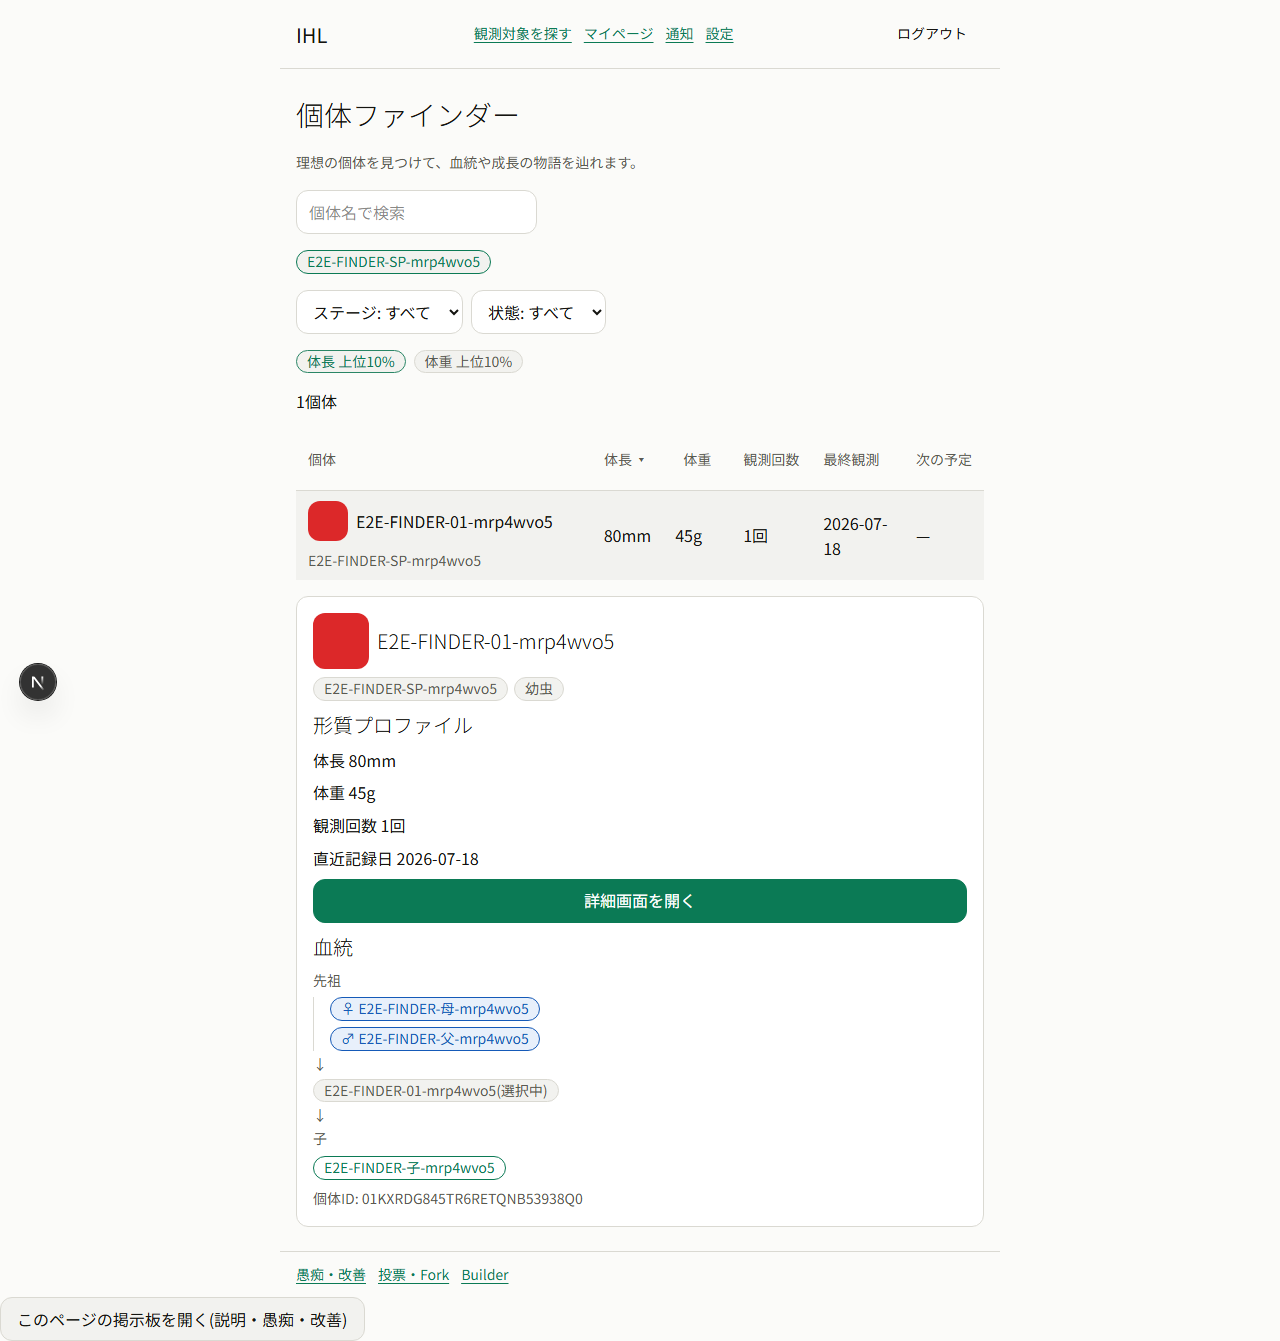
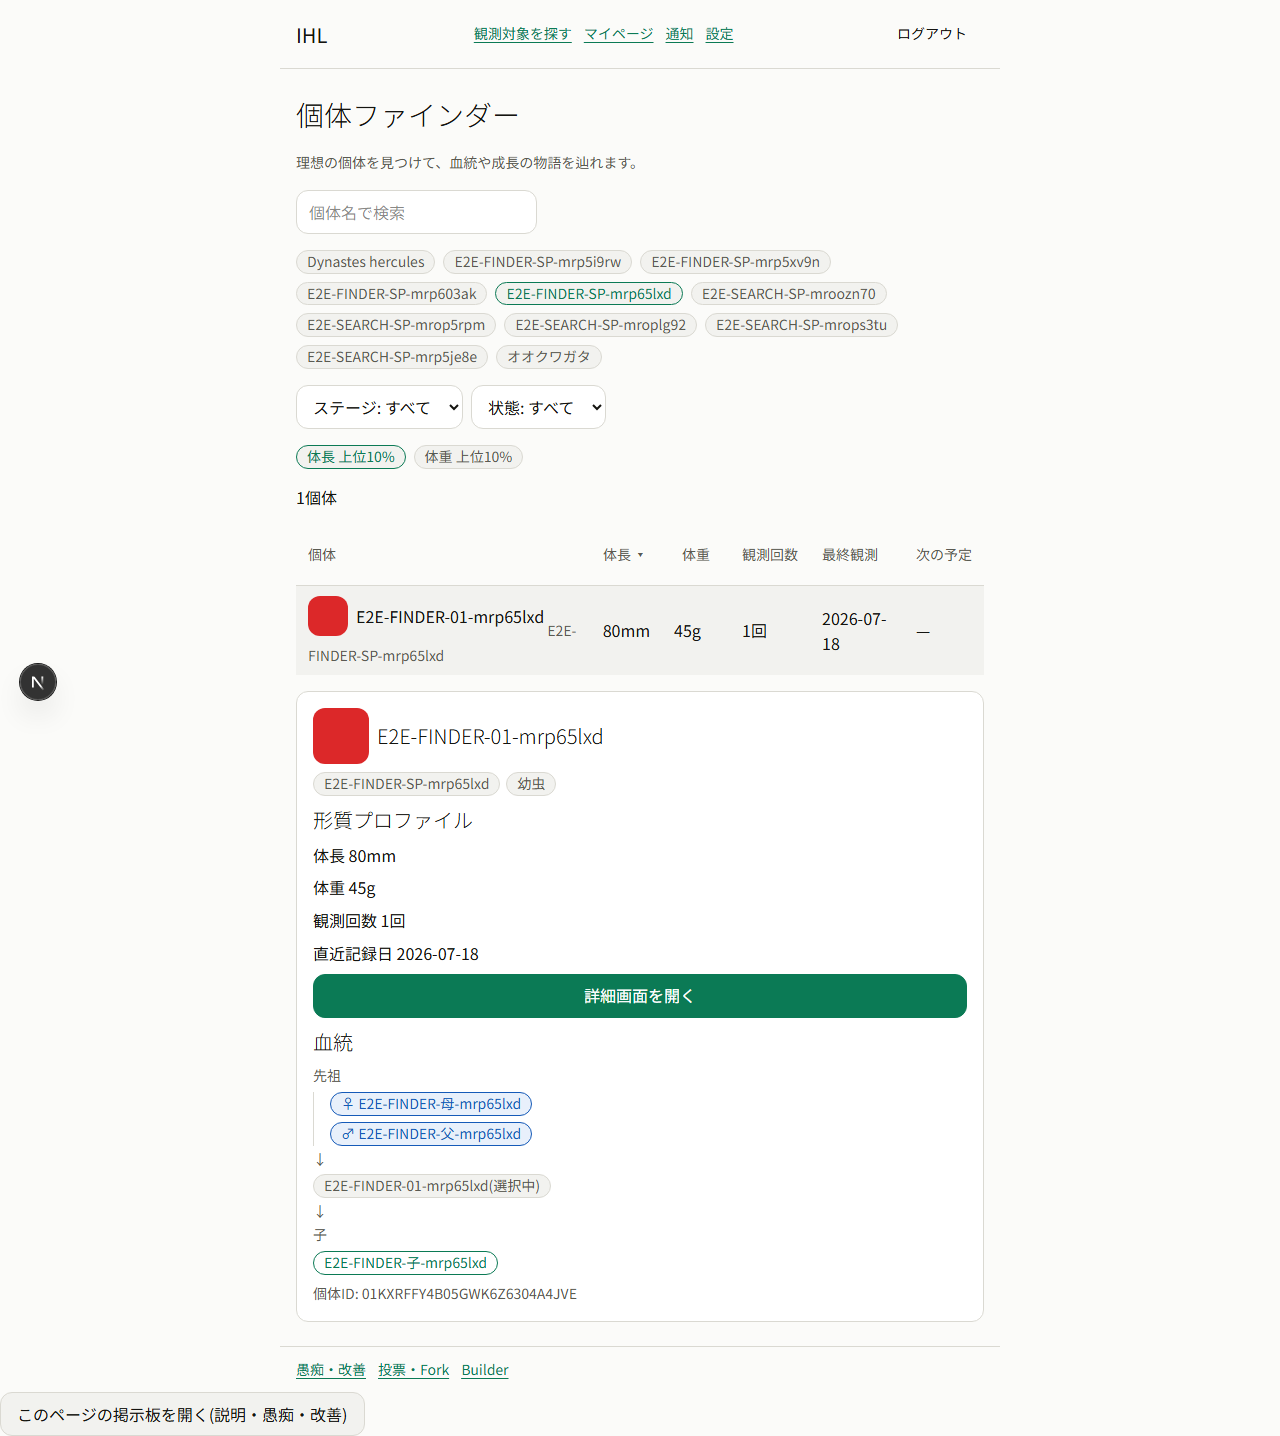
chore: 実装波の基準コミット — 残置差分4件(STEP 0節・round-16補足・モックアップ2枚)を畳む
自律実行理由: PLAN-ihl3-core D7(艦はcommitしない・検収後HQコミット)の前提=porcelainを綺麗にして艦の差分検知を成立させる。差分は2026-07-25以前からの正当な内容(STEP 0のT-79ゲートは571/571完了で条件成立済み)。参照: R0730-ad0c0b-PLAN-ihl3-core-2026-07-31.md §8

diff --git a/CLAUDE.md b/CLAUDE.md
@@ -12,8 +12,26 @@ status: active
 > このファイルが AI 向け規約の唯一の正本。`CLAUDE.md` は本ファイルの同内容複製（CI 同期チェック対象）。
 > 詳細は各リンク先へ。ここには規約と禁止事項だけを命令形で置く。
 
+## 🔴 STEP 0 — ver3 再開時に最初にやること（ユーザー指示 2026-07-25・実装より先）
+
+**この節を読まずに ver3 の実装を再開するな。** ユーザーの指示（原文）:
+
+> 「IHLver3 の未着手をホントにする必要があるのか? 本当にできていないのか? など、仕分けと調査が必要ですね。あとで、やりましょう。…IHL の続きやるときに、最初にやるってわかるようにしておいて。**本当にできているのか?も調査必要ですので、一回大規模整理が必要です。**」
+
+**何をするか = 要件758件の大規模仕分け（両方向の検算）**
+
+1. **未着手の仕分け**: 要件レジストリ 758 件のうち **571 件が未着手**、そのうち **424 件は実装計画（`docs/planning/c8/progress.json`）に記録すら無い**。これを「本当にやる必要があるか」で仕分ける — ①今もやる ②不要・撤回 ③別要件に吸収済み ④保留。**未着手の山を消化する前に、消化すべき山なのかを決める。**
+2. **完了の逆検算**: `status: done` の **158 件**が **本当に実装されているか**を実物（コード・テスト・コミット）で突合する。「done と書いてあるが実物が無い」を洗い出す。**片方向（未着手側）だけ見ても整理にならない。**
+3. **数字は必ず自分で数える**: `01-requirements/README.md` は「716 件」と書いたまま陳腐化している（実数 758）。README の数字を信じるな、ファイルを数えろ。
+
+**現在地の全体像はここで見る（HQ 側の完成度ボード）**: `http://ihl.tail4ae0a0.ts.net:8890/promises/index.html#board=ihl`
+要件レジストリ × 実装状況を機械的に突合して生成（手打ちゼロ）。生成器 = `D:\claude\00-hq\tools\build_ihl_board.py`。内訳 = 実装済 158 / 一部 29 / 未着手 571（うち 424 は実装計画に記録なし）。
+
+**この仕分けが済むまで、未着手要件の実装を積み上げるな**（消す判断がつく前に作ると手戻りになる）。台帳の追跡単位 = `D:\claude\00-hq\TASK-LEDGER.md` の **T-79**。
+
 ## 読む順（この順で読め）
 
+0. **本ファイルの「🔴 STEP 0」節（上）** — ver3 再開時はこれが最優先
 1. `README.md` — 単一 repo 宣言・clone・読む順
 2. `docs/onboarding.md` — 30 分で立ち上がるパス
 3. `docs/architecture.md` — レイヤー・feature→code の地図
